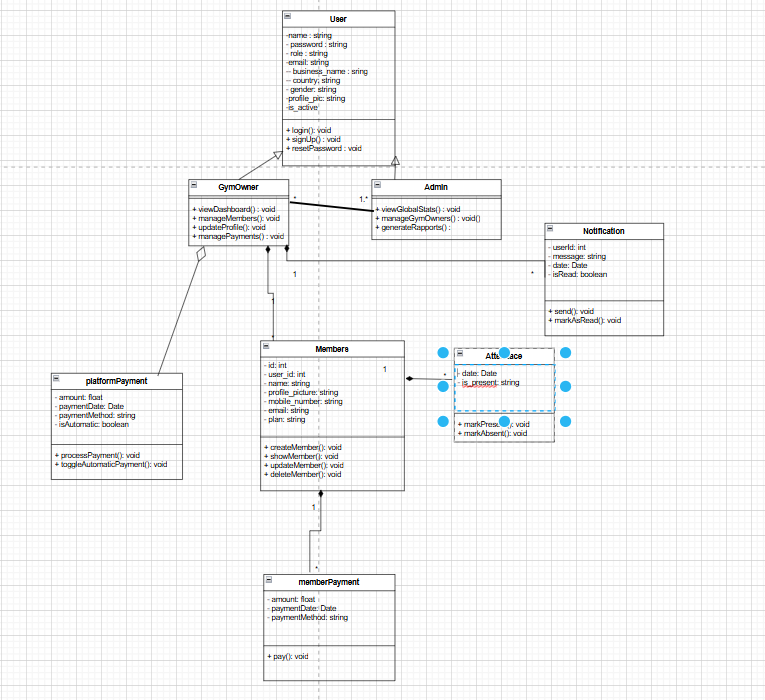
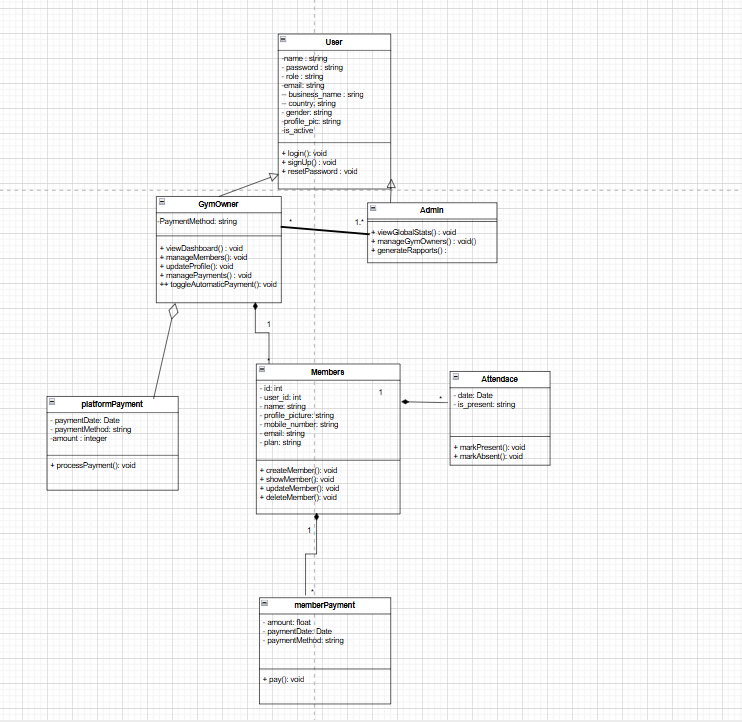
update uml diagrams

diff --git a/database/migrations/0001_01_01_000000_create_users_table.php b/database/migrations/0001_01_01_000000_create_users_table.php
@@ -23,8 +23,6 @@ return new class extends Migration
             $table -> enum('gender',["male","female"]) -> nullable();
             $table -> text("profile_pic") -> nullable();
             $table -> boolean("is_active") -> nullable();
-            $table -> boolean('isAuto') -> nullable();
-            $table -> string("payment_method") -> nullable();
             $table->softDeletes();
             $table->rememberToken();
             $table->timestamps();
